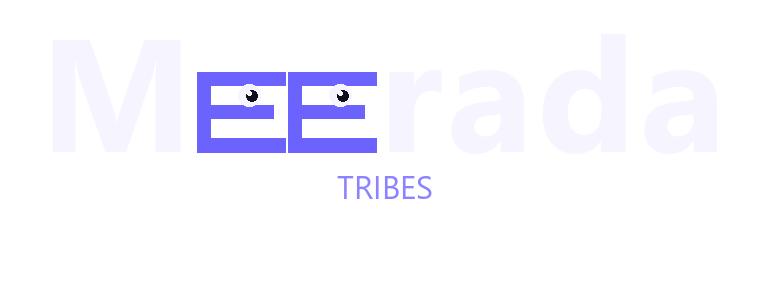
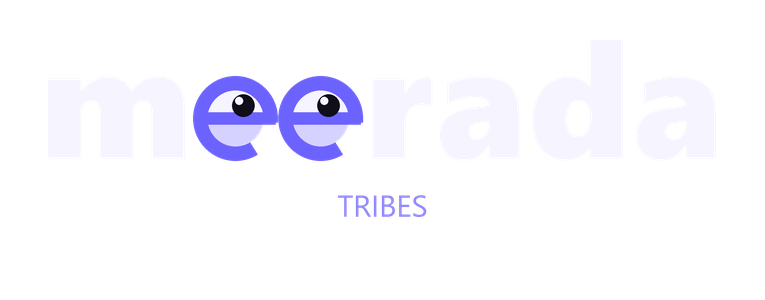
site: exchange page no longer shows Tribes (family lives on the group page, future meerada.ai root); group.html tree page; wordmark v5

Changed region(s): [[0.2405, 0.2517, 0.5111, 0.5594], [0.4209, 0.6154, 0.5712, 0.7273]]

diff --git a/site/group.html b/site/group.html
@@ -1,0 +1,74 @@
+<!doctype html>
+<html lang="en">
+<head>
+<meta charset="utf-8">
+<meta name="viewport" content="width=device-width, initial-scale=1">
+<title>Meerada — the group</title>
+<meta name="description" content="Meerada: an AI product family (Arena, Guard, LLManager, Judge) and Meerada Tribes, the city social app. Everything measured, nothing assumed.">
+<link rel="icon" href="logo.svg" type="image/svg+xml">
+<style>
+  :root{--bg:#0E0D16;--panel:#17162A;--text:#F2F1FF;--muted:#9A98B8;--purple:#6C63FF;--line:#2A2947;--teal:#2ECC71}
+  *{margin:0;padding:0;box-sizing:border-box}
+  body{background:var(--bg);color:var(--text);font-family:-apple-system,"Segoe UI",Roboto,Arial,sans-serif;line-height:1.55}
+  .wrap{max-width:980px;margin:0 auto;padding:36px 20px 70px}
+  header{display:flex;align-items:center;justify-content:space-between;gap:12px}
+  header img{height:52px}
+  .hero{margin-top:54px;text-align:center}
+  h1{font-size:clamp(30px,6vw,52px);font-weight:900;letter-spacing:-.5px;line-height:1.1}
+  h1 em{font-style:normal;color:var(--purple)}
+  .sub{color:var(--muted);font-size:18px;max-width:640px;margin:16px auto 0}
+  .tree{display:grid;grid-template-columns:1fr 1fr;gap:18px;margin-top:54px}
+  @media (max-width:720px){.tree{grid-template-columns:1fr}}
+  .branch{background:var(--panel);border:1px solid var(--line);border-radius:22px;padding:22px}
+  .branch h2{font-size:22px;font-weight:900}
+  .branch h2 small{display:block;color:var(--muted);font-weight:600;font-size:13px;margin-top:2px}
+  .branch p{color:var(--muted);margin-top:10px;font-size:14.5px}
+  .items{margin-top:14px;display:flex;flex-direction:column;gap:8px}
+  .item{display:flex;gap:10px;align-items:flex-start;text-decoration:none;color:var(--text);border:1px solid var(--line);border-radius:14px;padding:10px 12px}
+  .item:hover{border-color:var(--purple)}
+  .item b{font-size:14.5px}
+  .item span{display:block;color:var(--muted);font-size:13px}
+  .go{display:inline-block;margin-top:16px;background:var(--purple);color:#fff;border-radius:12px;padding:10px 16px;font-weight:800;text-decoration:none}
+  footer{margin-top:60px;color:var(--muted);font-size:12.5px;text-align:center;border-top:1px solid var(--line);padding-top:18px}
+</style>
+</head>
+<body>
+<div class="wrap">
+  <header>
+    <img src="assets/meerada-wordmark.png" alt="Meerada">
+    <span style="color:var(--muted);font-size:13px">Tel Aviv · since 2026</span>
+  </header>
+
+  <section class="hero">
+    <h1>Meerada. <em>Measure what's real.</em></h1>
+    <p class="sub">One family, two branches: the AI products that measure models and guard the people who use them — and Tribes, the app that measures real life: real steps, real people, real rooms.</p>
+  </section>
+
+  <section class="tree">
+    <div class="branch">
+      <h2>Meerada <small>AI products · meerada.app</small></h2>
+      <p>Every model from every lab, measured hourly on verifiable tasks and priced by cost per verified task.</p>
+      <div class="items">
+        <a class="item" href="https://meerada.app/"><div>📊</div><div><b>Arena</b><span>The live model exchange.</span></div></a>
+        <a class="item" href="https://meerada.app/llmanager.html"><div>🎛</div><div><b>LLManager</b><span>Import your Claude / ChatGPT history, switch models mid-conversation.</span></div></a>
+        <a class="item" href="https://meerada.app/guard.html"><div>🛡</div><div><b>Guard</b><span>The watchdog for AI at work: stalled tasks and token burn, caught in seconds.</span></div></a>
+        <a class="item" href="https://meerada.app/llmanager.html#crosscheck"><div>🔎</div><div><b>Judge / Cross-check</b><span>The model that examines models.</span></div></a>
+      </div>
+      <a class="go" href="https://meerada.app/">Open meerada.app ›</a>
+    </div>
+    <div class="branch">
+      <h2>Meerada Tribes <small>the app · iOS &amp; Android</small></h2>
+      <p>Your city's social layer: live groups around you, a radar of who's nearby, step and floor leagues with friends you approve, and Teeby — an AI you just talk to. Its AI characters run on models ranked next door.</p>
+      <div class="items">
+        <a class="item" href="https://play.google.com/store/apps/details?id=com.tryber.social"><div>▶</div><div><b>Google Play</b><span>Android</span></div></a>
+        <a class="item" href="https://apps.apple.com/app/id6780445573"><div></div><div><b>App Store</b><span>iPhone</span></div></a>
+        <a class="item" href="tribes.html"><div>👀</div><div><b>About Tribes</b><span>What it is, in Hebrew and English.</span></div></a>
+      </div>
+      <a class="go" href="tribes.html">Open Tribes ›</a>
+    </div>
+  </section>
+
+  <footer>© Meerada · <a href="mailto:rave.mm@gmail.com" style="color:var(--muted)">Contact</a> · <a href="tribes-privacy.html" style="color:var(--muted)">Tribes privacy</a></footer>
+</div>
+</body>
+</html>

diff --git a/site/index.html b/site/index.html
@@ -252,7 +252,6 @@
     <a class="pbanner" href="https://app.meerada.app" target="_blank" rel="noopener"><b>▶ Try it in the browser</b><span>The live cockpit, no install: run many models on many tasks in parallel, right now.</span></a>
     <a class="pbanner" href="#handshake"><b>🤝 Handshake Report</b><span>For companies: a measured migration plan for your real workload — where to move, what you save, where quality breaks.</span></a>
     <a class="pbanner" href="#battery"><b>🧪 Sponsored grading</b><span>Labs: get your model on the full battery, daily for 30 days. Results publish either way.</span></a>
-    <a class="pbanner" href="tribes.html"><b>👀 Meerada Tribes <span class="pb-tag">app</span></b><span>Our consumer app: live groups near you, a radar of who's around, step leagues, and Teeby — an AI you just talk to.</span></a>
     <a class="pbanner" href="https://github.com/ravemm-hub/meerada" target="_blank" rel="noopener"><b>⬇ Open-source core</b><span>The measuring engine, the CLI and this exchange's data — free, on GitHub.</span></a>
   </div>
 
